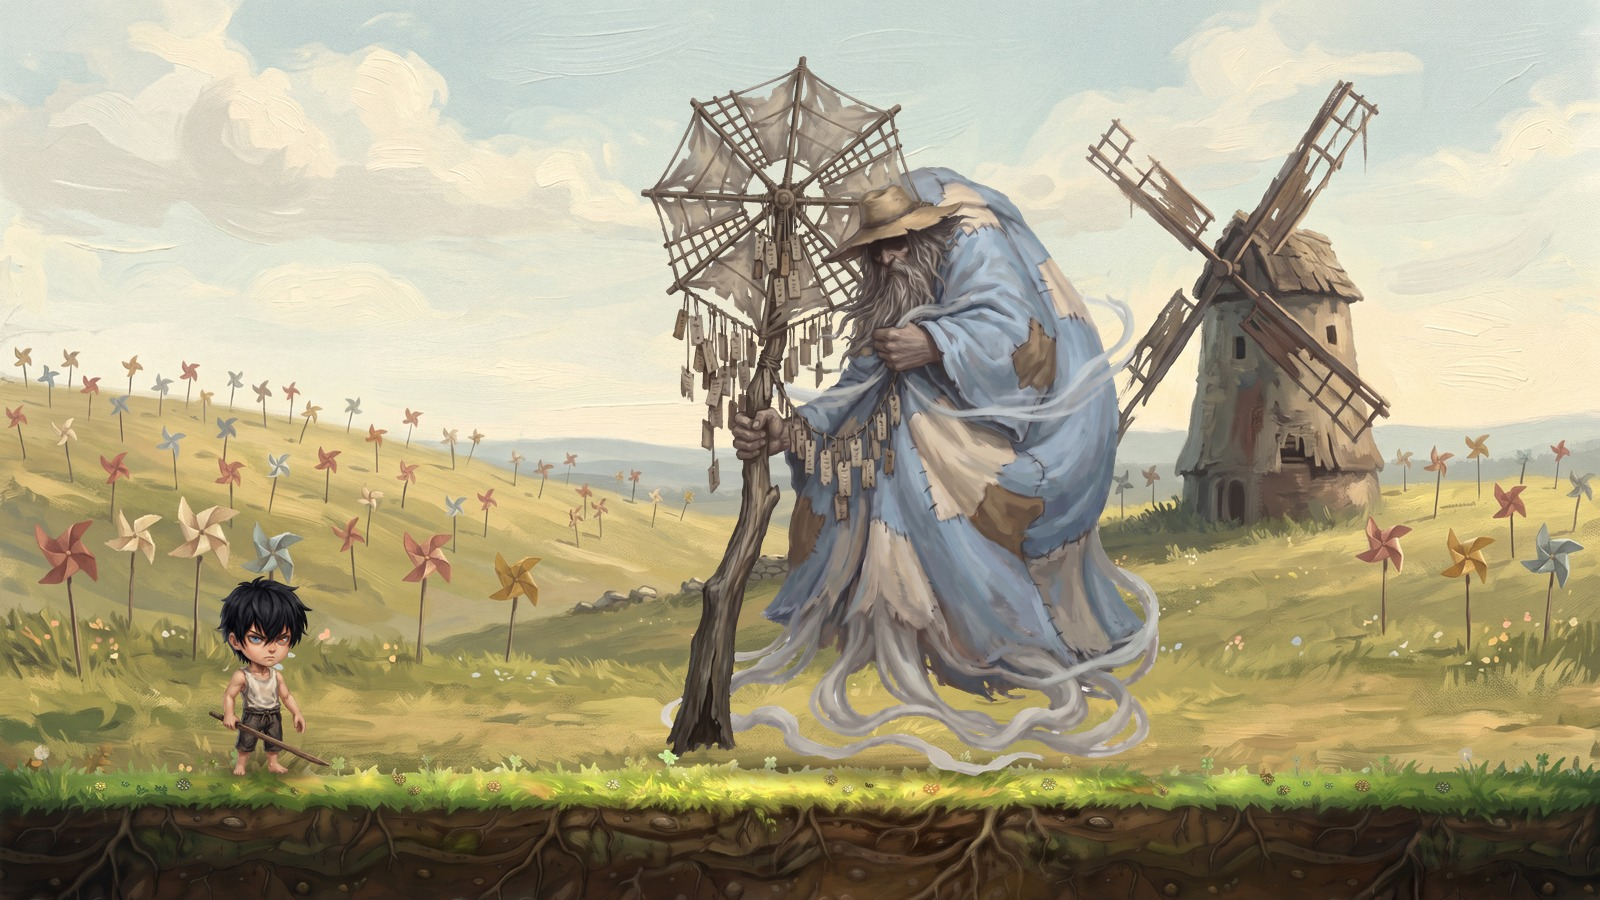
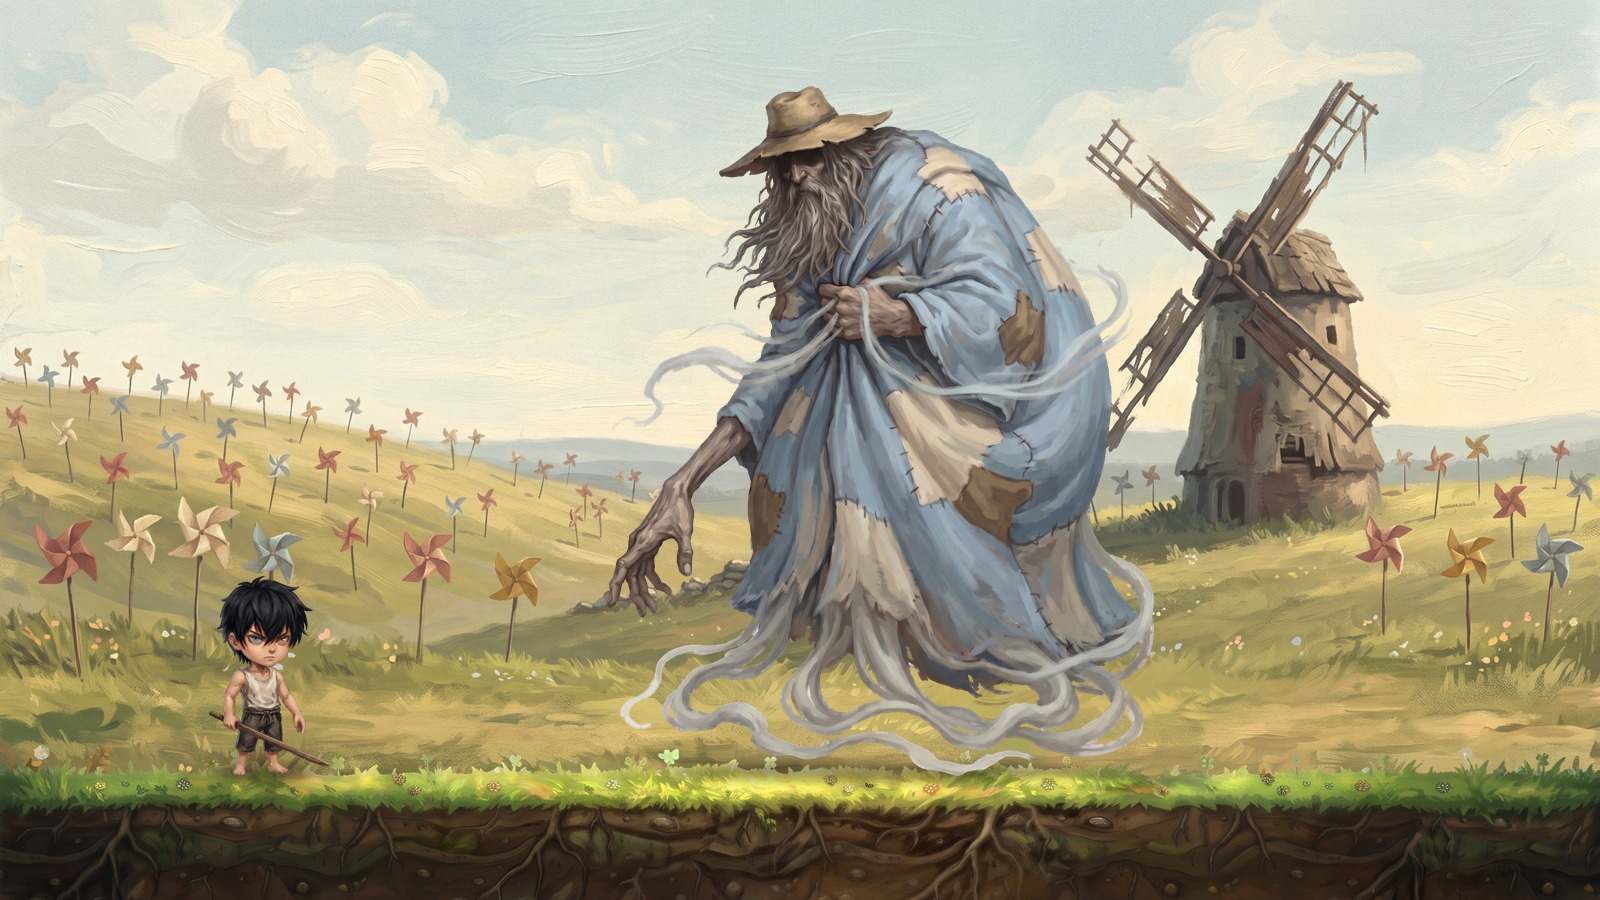
거인에서 막대와 바람개비를 모두 뺐다
Claude-Session: https://claude.ai/code/session_019ctizXgKMq2Zc4rqnxPXRD

Changed region(s): [[0.375, 0.0622, 0.75, 0.8711]]

diff --git a/잊혀진 기사 키우기 세계관/몬스터 도감.md b/잊혀진 기사 키우기 세계관/몬스터 도감.md
@@ -76,8 +76,7 @@
 ### 우두머리 · 바람을 삼킨 거인
 **생김새**
 - 키 큰 거인. 온몸을 덮는 크고 기운 망토가 속에 갇힌 바람으로 불룩하게 부풀어 있다. 이것이 포인트 하나다. 넓은 챙 모자에 얼굴이 가려 있다.
-- 시안: `art/시안/시험세트/2장/2-10-바람을삼킨거인-2.png`. 얼굴은 모자 그늘에 가려 보이지 않고 수염만 흘러나온다. 망토 아랫단은 다리 대신 옅은 안개 가닥으로 풀려 땅 위에 떠 있다. 여민 자리와 솔기에서 바람이 실처럼 샌다. 머리 뒤에 멈춘 바람개비 열두어 개가 관처럼 펼쳐져 있다.
-- 등에 바람개비가 수십 개 꽂혀 있는데 하나도 돌지 않는다.
+- 시안: `art/시안/시험세트/2장/2-10-바람을삼킨거인-5.png` (2026-11-18). 거인만 있다. 바람개비도 지팡이도 들지 않는다. 얼굴은 모자 그늘에 가려 보이지 않고 수염만 흘러나온다. 망토 아랫단은 다리 대신 옅은 안개 가닥으로 풀려 땅 위에 떠 있다. 여민 자리와 솔기에서 바람이 실처럼 샌다.
 - 숨을 들이쉬면 풀이 눕고 기사가 끌려간다. 내쉬면 돌풍이 분다.
 - 주된 색은 바랜 하늘색. 그룸(나무), 돌탑 지기(돌)와 재질이 겹치지 않게 천과 바람으로 그린다. 살찐 모습으로 그리지 않는다. 부푼 것은 몸이 아니라 망토다.
 - 쓰러뜨리면 흩어지지 않는다. 주저앉아 망토를 놓는다.
